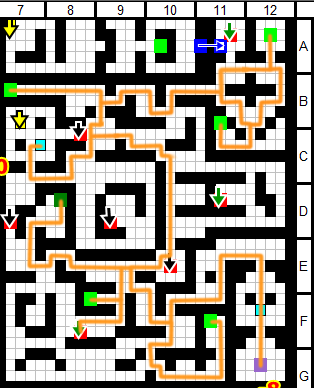
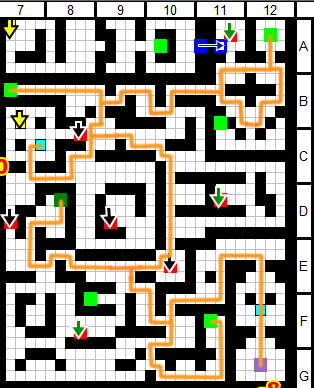
Updated 14F maps and removed some extra chests

Changed region(s): [[0.2293, 0.6804, 0.4586, 0.866], [0.6879, 0.3093, 0.8312, 0.4021]]

diff --git a/item/chests.md b/item/chests.md
@@ -378,9 +378,9 @@ Any treasure located in floor A that can only be obtained after reaching floor B
 | The Bee | X |
 | Treasure Chest Key | O |
 | Wallbreaker Armband | O |
-| Wisdom Gem | O |
-| Floor Total | 9 |
-| Combined Total | 143 |
+| Wisdom Gem | X |
+| Floor Total | 8 |
+| Combined Total | 127 |
 
 #### <a id="floor-15"></a>Floor 15
 
@@ -410,7 +410,7 @@ Any treasure located in floor A that can only be obtained after reaching floor B
 | Stone of Awakening | X |
 | Tokyo Metronome | X |
 | Training Manual | O |
-| Training Manual | O |
+| Training Manual | X |
 | Ultrafast Granite Keystone | X |
 | Youkai Medal Shattering Axe | X |
 | Floor Total | 14 |
